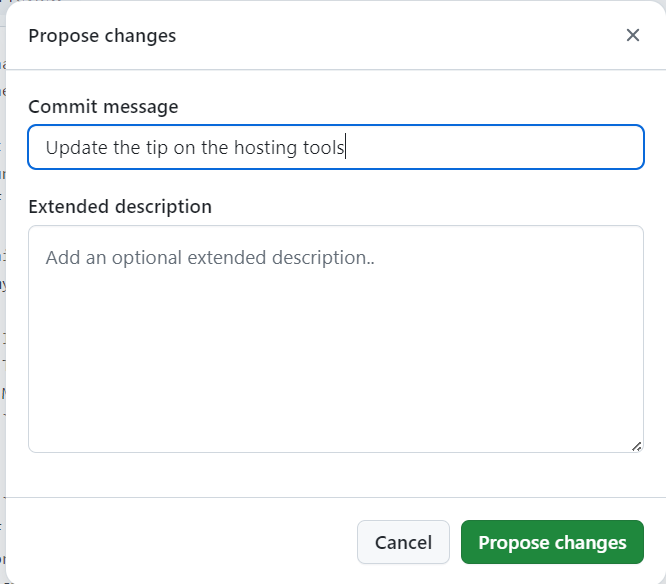
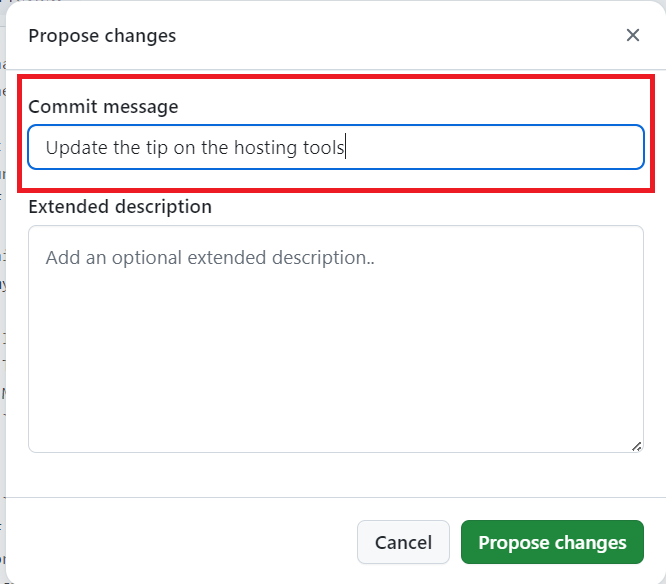
docs: update the images with highlight

Changed region(s): [[0.0, 0.1233, 0.991, 0.339]]

diff --git a/CONTRIBUTING.md b/CONTRIBUTING.md
@@ -50,7 +50,7 @@ name: edit-button-pencil in GitHub
 width: 80%
 alt: Edit button in GitHub
 ---
-An image showing how to edit a file in GitHub. The pencil icon is highlighted with a red circle.
+An image showing how to edit a file in GitHub. The pencil icon is highlighted with a red rectangle.
 
 ```{figure} images/contributing/edit-file.png
 ---
@@ -69,7 +69,7 @@ name: preview-changes in GitHub
 width: 80%
 alt: Preview changes in GitHub
 ---
-An image showing how to preview changes in GitHub. The file content is displayed in a text editor.
+An image showing how to preview changes in GitHub. The file content is displayed in a text editor. The preview changes tab is highlighted with a red rectangle.
 ```
 
 ### How to commit your changes
@@ -83,7 +83,7 @@ name: commit-changes in GitHub
 width: 80%
 alt: Commit changes in GitHub
 ---
-An image showing how to commit changes in GitHub. The commit message is displayed in a text editor.
+An image showing how to commit changes in GitHub. The commit message is displayed in a text editor. The commit changes section is highlighted with a red rectangle.
 ```
 
 After writing your commit message, click the "Commit changes" button to save your changes.
@@ -105,7 +105,7 @@ name: clone-repository in GitHub
 width: 80%
 alt: Clone repository in GitHub
 ---
-An image showing how to clone a repository in GitHub. The URL of the repository is displayed in a text editor.
+An image showing how to clone a repository in GitHub. The URL of the repository is displayed in a text editor. The code button is highlighted with a red rectangle.
 ```
 
 ### Create a new branch
@@ -212,7 +212,7 @@ name: pull-requests-tab in GitHub
 width: 80%
 alt: Pull requests tab in GitHub
 ---
-An image showing how to navigate to the pull requests tab in GitHub.
+An image showing how to navigate to the pull requests tab in GitHub. The pull requests tab is highlighted with a red rectangle.
 ```
 
 2. Click on the "New pull request" button.
@@ -223,7 +223,7 @@ name: new-pull-request in GitHub
 width: 80%
 alt: New pull request button in GitHub
 ---
-An image showing how to create a new pull request in GitHub.
+An image showing how to create a new pull request in GitHub. The new pull request button is highlighted with a red rectangle.
 ```
 
 3. Write a clear and concise title and description for your pull request. Make sure to describe the changes you made and why they are necessary.
@@ -243,7 +243,7 @@ name: pull-requests-checks in GitHub
 width: 80%
 alt: Pull request checks in GitHub
 ---
-An image showing the status of the checks in a pull request in GitHub.
+An image showing the status of the checks in a pull request in GitHub. The checks are displayed in a table with a status icon next to each check. The checks are highlighted with a red rectangle.
 ```
 If any of these checks fail, you will see an error message in your pull request. You need to fix the errors before your changes can be merged.
 
@@ -253,7 +253,7 @@ name: pull-requests-checks-fails in GitHub
 width: 80%
 alt: Pull request checks failed in GitHub
 ---
-An image showing the status of the checks in a pull request in GitHub.
+An image showing the status of the checks in a pull request in GitHub. The checks are displayed in a table with a status icon next to each check. The checks that failed and the details link are highlighted with a red rectangle.
 ```
 
 To get more information about the errors, you can click on the "Details" link next to the failed check.
